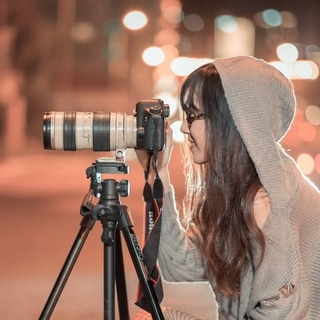
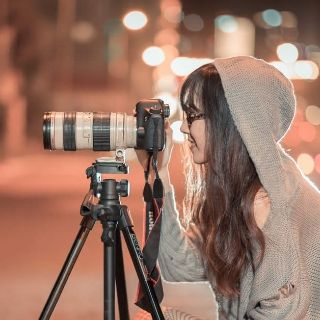
convetion des images en jpg + compression 80%

Changed region(s): [[0.9688, 0.75, 1.0, 0.8125], [0.2812, 0.375, 0.3438, 0.4062], [0.375, 0.5, 0.4062, 0.5312]]

diff --git a/css/style.css b/css/style.css
@@ -1,1 +1,1 @@
-body{margin:0;padding:0;background:#FFF;overflow-x:hidden;-webkit-font-smoothing:antialiased;-moz-osx-font-smoothing:grayscale}*:focus{border:2px dotted gray}a,button{transition:all .3s ease-in-out;outline:none!important}a:hover{text-decoration:none;cursor:pointer}#page-loading-blocs-notifaction{position:fixed;top:0;bottom:0;width:100%;z-index:100000;background:#FFF url(../img/pageload-spinner.gif) no-repeat center center}.bloc{width:100%;clear:both;background:50% 50% no-repeat;padding:0 50px;-webkit-background-size:cover;-moz-background-size:cover;-o-background-size:cover;background-size:cover;position:relative}.bloc .container{padding-left:0;padding-right:0}.bloc-lg{padding:100px 50px}.bloc-md{padding:50px}.bloc-sm{padding:20px 50px}.bg-center,.bg-l-edge,.bg-r-edge,.bg-t-edge,.bg-b-edge,.bg-tl-edge,.bg-bl-edge,.bg-tr-edge,.bg-br-edge,.bg-repeat{-webkit-background-size:auto!important;-moz-background-size:auto!important;-o-background-size:auto!important;background-size:auto!important}.bg-repeat{background:repeat}.bg-t-edge{background:top no-repeat}.bloc-bg-texture::before{content:"";background-size:2px 2px;position:absolute;top:0;bottom:0;left:0;right:0}.texture-paper::before{background:url(../img/texture-paper.png);background-size:280px 280px}.b-parallax{background-attachment:fixed}.d-bloc{color:rgba(255,255,255,.7)}.d-bloc button:hover{color:rgba(255,255,255,.9)}.d-bloc .icon-round,.d-bloc .icon-square,.d-bloc .icon-rounded,.d-bloc .icon-semi-rounded-a,.d-bloc .icon-semi-rounded-b{border-color:rgba(255,255,255,.9)}.d-bloc .divider-h span{border-color:rgba(255,255,255,.2)}.d-bloc .a-btn,.d-bloc .navbar a,.d-bloc .navbar-brand,.d-bloc a .icon-sm,.d-bloc a .icon-md,.d-bloc a .icon-lg,.d-bloc a .icon-xl,.d-bloc h1 a,.d-bloc h2 a,.d-bloc h3 a,.d-bloc h4 a,.d-bloc h5 a,.d-bloc h6 a,.d-bloc p a{color:rgba(255,255,255,.6)}.d-bloc .a-btn:hover,.d-bloc .navbar a:hover,.d-bloc .navbar-brand:hover,.d-bloc a:hover .icon-sm,.d-bloc a:hover .icon-md,.d-bloc a:hover .icon-lg,.d-bloc a:hover .icon-xl,.d-bloc h1 a:hover,.d-bloc h2 a:hover,.d-bloc h3 a:hover,.d-bloc h4 a:hover,.d-bloc h5 a:hover,.d-bloc h6 a:hover,.d-bloc p a:hover{color:rgba(255,255,255,1)}.d-bloc .navbar-toggle .icon-bar{background:rgba(255,255,255,1)}.d-bloc .btn-wire,.d-bloc .btn-wire:hover{color:rgba(255,255,255,1);border-color:rgba(255,255,255,1)}.d-bloc .panel{color:rgba(0,0,0,.5)}.d-bloc .panel button:hover{color:rgba(0,0,0,.7)}.d-bloc .panel icon{border-color:rgba(0,0,0,.7)}.d-bloc .panel .divider-h span{border-color:rgba(0,0,0,.1)}.d-bloc .panel .a-btn{color:rgba(0,0,0,.6)}.d-bloc .panel .a-btn:hover{color:rgba(0,0,0,1)}.d-bloc .panel .btn-wire,.d-bloc .panel .btn-wire:hover{color:rgba(0,0,0,.7);border-color:rgba(0,0,0,.3)}.d-bloc .panel,.l-bloc{color:rgba(0,0,0,.5)}.d-bloc .panel button:hover,.l-bloc button:hover{color:rgba(0,0,0,.7)}.l-bloc .icon-round,.l-bloc .icon-square,.l-bloc .icon-rounded,.l-bloc .icon-semi-rounded-a,.l-bloc .icon-semi-rounded-b{border-color:rgba(0,0,0,.7)}.d-bloc .panel .divider-h span,.l-bloc .divider-h span{border-color:rgba(0,0,0,.1)}.d-bloc .panel .a-btn,.l-bloc .a-btn,.l-bloc .navbar a,.l-bloc .navbar-brand,.l-bloc a .icon-sm,.l-bloc a .icon-md,.l-bloc a .icon-lg,.l-bloc a .icon-xl,.l-bloc h1 a,.l-bloc h2 a,.l-bloc h3 a,.l-bloc h4 a,.l-bloc h5 a,.l-bloc h6 a,.l-bloc p a{color:rgba(0,0,0,.6)}.d-bloc .panel .a-btn:hover,.l-bloc .a-btn:hover,.l-bloc .navbar a:hover,.l-bloc .navbar-brand:hover,.l-bloc a:hover .icon-sm,.l-bloc a:hover .icon-md,.l-bloc a:hover .icon-lg,.l-bloc a:hover .icon-xl,.l-bloc h1 a:hover,.l-bloc h2 a:hover,.l-bloc h3 a:hover,.l-bloc h4 a:hover,.l-bloc h5 a:hover,.l-bloc h6 a:hover,.l-bloc p a:hover{color:rgba(0,0,0,1)}.l-bloc .navbar-toggle .icon-bar{color:rgba(0,0,0,.6)}.d-bloc .panel .btn-wire,.d-bloc .panel .btn-wire:hover,.l-bloc .btn-wire,.l-bloc .btn-wire:hover{color:rgba(0,0,0,.7);border-color:rgba(0,0,0,.3)}.voffset{margin-top:30px}.voffset-lg{margin-top:80px}.row-no-gutters{margin-right:0;margin-left:0}.row.row-no-gutters>[class^="col-"],.row.row-no-gutters>[class*=" col-"]{padding-right:0;padding-left:0}#bloc-1-hero h1{font-size:32px}.navbar{margin-bottom:0;z-index:1}.navbar-brand{height:auto;padding:3px 15px;font-size:25px;font-weight:400;font-weight:600;line-height:44px}.navbar-brand img{max-height:200px;margin:0 5px 0 0;display:inline}.navbar-brand img[src$=svg]{min-width:100px}.nav-center .navbar-brand img{margin:0}.navbar .nav{padding-top:2px;margin-right:-16px;float:right;z-index:1}.nav>li{float:left;margin-top:4px;font-size:16px}.navbar-nav .open .dropdown-menu>li>a{text-align:inherit}.nav>li a:hover,.nav>li a:focus{background:transparent}.navbar-toggle{margin:10px 10px 0 0;border:0}.navbar-toggle:hover{background:transparent!important}.navbar-toggle .icon-bar{background-color:rgba(0,0,0,.5);width:26px}.nav-invert .navbar .nav{float:left}.nav-invert .navbar-header,.nav-invert .navbar-brand{float:right;position:relative;z-index:2}@media (min-width:768px){.site-navigation{position:absolute;top:50%;right:20px;transform:translate(0,-50%);-webkit-transform:translateY(-50%)}.nav>li .dropdown-menu a,.nav>li .dropdown-menu a:hover{color:#484848}.nav-invert .site-navigation{left:0;right:0}.nav-center{text-align:center}.nav-center .navbar-header{width:100%}.nav-center .navbar-header,.nav-center .navbar-brand,.nav-center .nav>li{float:none;display:inline-block}.nav-center .site-navigation{position:relative;width:100%;right:0;margin-right:0;margin-top:20px}.nav-center.mini-nav .navbar-toggle{float:none;margin:10px auto 0}}.nav>li>.dropdown a{background:none!important;display:block;padding:14px 15px}nav .caret{margin:0 5px}.dropdown-menu .dropdown-menu{top:-8px;left:100%}.dropdown-menu .dropmenu-flow-right{top:100%;left:0;margin-left:-1px;border-top-left-radius:0;border-top-right-radius:0}.dropdown-menu .dropdown span{border:4px solid #000;border-top-color:transparent;border-right-color:transparent;border-bottom-color:transparent;margin:6px -5px 0 0!important;float:right}.mg-md{margin-top:10px;margin-bottom:20px}.mg-lg{margin-top:10px;margin-bottom:40px}.btn{margin:0 5px 5px 0}.btn.pull-right{margin:0 0 5px 5px}.btn-d,.btn-d:hover,.btn-d:focus{color:#FFF;background:rgba(0,0,0,.3)}button{outline:none!important}.btn-rd{border-radius:40px}.btn-clean{border:1px solid rgba(0,0,0,.08);border-bottom-color:rgba(0,0,0,.1);text-shadow:0 1px 0 rgba(0,0,1,.1);box-shadow:0 1px 3px rgba(0,0,1,.25),inset 0 1px 0 0 rgba(255,255,255,.15)}.icon-md{font-size:30px!important}.icon-lg{font-size:60px!important}.sm-shadow{text-shadow:0 1px 2px rgba(0,0,0,.3)}.panel-sq,.panel-sq .panel-heading,.panel-sq .panel-footer{border-radius:0}.panel-rd{border-radius:30px}.panel-rd .panel-heading{border-radius:29px 29px 0 0}.panel-rd .panel-footer{border-radius:0 0 29px 29px}.form-control{border-color:rgba(0,0,0,.1);box-shadow:none}.scrollToTop{width:40px;height:40px;position:fixed;bottom:20px;right:20px;opacity:0;z-index:500;transition:all .3s ease-in-out}.scrollToTop span{margin-top:6px}.showScrollTop{font-size:14px;opacity:1}a[data-lightbox]{position:relative;display:block;text-align:center}a[data-lightbox]:hover::before{content:"+";font-family:"HelveticaNeue-Light","Helvetica Neue Light","Helvetica Neue",Helvetica,Arial;font-size:32px;width:50px;height:50px;margin-left:-25px;border-radius:50%;padding-top:2px;padding-left:2px;background:rgba(0,0,0,.6);color:#FFF;font-weight:100;z-index:1;position:absolute;top:30%;transform:translateY(-50%);-webkit-transform:translateY(-50%)}a[data-lightbox]:hover img{opacity:.6;-webkit-animation-fill-mode:none;animation-fill-mode:none}#lightbox-modal{display:flex;align-items:center}#lightbox-modal .modal-dialog{width:90%;max-width:900px;margin:0 auto 0}#lightbox-modal .modal-dialog img{max-height:90vh;margin:0 auto}.lightbox-caption{padding:20px;color:#FFF;background:rgba(0,0,0,.5);position:absolute;left:15px;right:15px;bottom:5px}.close-lightbox{color:#FFF;font-size:30px;position:absolute;top:20px;right:20px;z-index:20;background:rgba(0,0,0,.5);border:none;line-height:30px;padding:0 9px 5px;opacity:.3}.close-lightbox:hover,.next-lightbox:hover,.prev-lightbox:hover{opacity:1;color:#FFF}.next-lightbox,.prev-lightbox{font-size:20px;color:rgba(255,255,255,.9);background:rgba(0,0,0,.5);transition:all .2s ease-in-out;position:absolute;top:45%;z-index:1;opacity:.4}.next-lightbox{padding:6px 8px 1px 13px;right:25px}.prev-lightbox{padding:6px 13px 1px 10px;left:25px}.snapshot-lb .modal-body{padding-bottom:45px}.snapshot-lb .lightbox-caption{padding:0;color:rgba(0,0,0,.5);background:none}h1,h2,h3,h4,h5,h6,p,label,.btn,a{font-family:"helvetica";font-weight:400;color:#575757!important}.container{max-width:1000px}.hero-bloc-text{font-size:38px}.hero-bloc-text-sub{font-size:36px}.statement-bloc-text{line-height:26px;font-style:italic;font-size:20px;text-align:center;font-weight:lighter;max-width:520px;margin:auto auto auto auto}p{font-size:16px}.tight-width-whitespace{max-width:600px;margin:auto auto auto auto}.h1{font-size:20px;font-family:"Open Sans"}.cta-hero{margin-top:22px;color:#FFFFFF!important;text-transform:uppercase;padding:12px 28px 12px 28px;font-size:16px;font-weight:700}.social{max-width:400px;margin:auto auto auto auto}h2{font-size:22px;line-height:1.4em}h3{font-size:15px;text-transform:uppercase;font-weight:700;color:#333333!important}.med-width-whitespace{max-width:800px;margin:auto auto auto auto;box-shadow:0 0 0 #000}h1{color:#333333!important}h4{color:#333333!important}.icons{margin-bottom:14px;margin-top:24px}.white{color:#FFFFFF!important}.portfolio-thumb{margin-bottom:24px;height:270px;width:270px;margin-left:auto;margin-right:auto}.portfolio-row{margin-bottom:44px;margin-top:50px}.avatar{box-shadow:0 4px 9px rgba(0,0,0,.3)}.black-background{background-color:rgba(165,147,99,.7);padding:40px 40px 40px 40px}.bold-link{font-weight:900;text-decoration:underline!important}.bgc-white{background-color:#FFF}.bgc-dark-slate-blue{background-color:#364577}.bgc-atomic-tangerine{background-color:#F3976C}.tc-white{color:#F3976C!important}.btn-atomic-tangerine{background:#F3976C;color:#FFFFFF!important}.btn-atomic-tangerine:hover{background:#c27956!important;color:#0000!important}.ltc-white{color:#FFFFFF!important}.ltc-white:hover{color:#cccccc!important}.ltc-atomic-tangerine{color:#F3976C!important}.ltc-atomic-tangerine:hover{color:#c27956!important}.icon-dark-slate-blue{color:#364577!important;border-color:#364577!important}.bg-dots-bg{background-image:url(../img/dots-bg.png)}.bg-lines-h2-bg{background-image:url(../img/lines-h2-bg.png)}.bg-banniere{background-image:url(../img/la-chouette-agence-banniere.jpg)}.bg-presentation{background-image:url(../img/image-de-presentation.bmp)}@media (max-width:1024px){.bloc{padding-left:20px;padding-right:20px}.bloc.full-width-bloc,.bloc-tile-2.full-width-bloc .container,.bloc-tile-3.full-width-bloc .container,.bloc-tile-4.full-width-bloc .container{padding-left:0;padding-right:0}}@media (max-width:992px) and (min-width:768px){.navbar .nav{max-width:80%}.nav-center.navbar .nav{max-width:100%}}@media only screen and (min-width:768px) and (max-width:1024px) and (orientation:landscape){.b-parallax{background-attachment:scroll}}@media only screen and (min-width:1024px) and (max-width:1366px) and (-webkit-min-device-pixel-ratio:1.5){.b-parallax{background-attachment:scroll}}@media (max-width:991px){.container{width:100%}.b-parallax{background-attachment:scroll}.page-container,#hero-bloc{overflow-x:hidden;position:relative}.bloc{padding-left:20px;padding-right:20px}.bloc-group,.bloc-group .bloc{display:block;width:100%}.bloc-fill-screen .fill-bloc-top-edge,.bloc-fill-screen .fill-bloc-bottom-edge{padding:0 20px;padding-left:20px;padding-right:20px}}@media (max-width:767px){.page-container{overflow-x:hidden;position:relative}h1,h2,h3,h4,h5,h6,p,#disqus_thread{padding-left:10px!important;padding-right:10px!important}.b-parallax{background-attachment:scroll}.navbar .nav{padding-top:0;border-top:1px solid rgba(0,0,0,.2);float:none!important}.navbar.row{margin-left:0;margin-right:0}.site-navigation{position:inherit;transform:none;-webkit-transform:none;-ms-transform:none}.nav>li{margin-top:0;border-bottom:1px solid rgba(0,0,0,.1);background:rgba(0,0,0,.05);text-align:left;padding-left:15px;width:100%}.nav>li:hover{background:rgba(0,0,0,.08)}.dropdown .dropdown a .caret{float:none;margin:5px 0 0 10px!important;border:4px solid #000;border-bottom-color:transparent;border-right-color:transparent;border-left-color:transparent}#hero-bloc .navbar .nav{background:rgba(0,0,0,.8)}#hero-bloc .navbar .nav a{color:rgba(255,255,255,.6)}.hero{padding:50px 0}.hero-nav{left:-1px;right:-1px}.navbar-collapse{padding:0;overflow-x:hidden;-webkit-box-shadow:none;box-shadow:none}.navbar-brand img{max-height:40px;width:auto}.nav-invert .navbar-header{float:none;width:100%}.nav-invert .navbar-toggle{float:left;margin-left:10px}.bloc{padding-left:0;padding-right:0}.bloc-xxl,.bloc-xl,.bloc-lg{padding:40px 0}.bloc-sm,.bloc-md{padding-left:0;padding-right:0}.bloc-tile-2 .container,.bloc-tile-3 .container,.bloc-tile-4 .container,.bloc-fill-screen .fill-bloc-top-edge,.bloc-fill-screen .fill-bloc-bottom-edge{padding-left:0;padding-right:0}.a-block{padding:0 10px}.btn-dwn{display:none}.voffset{margin-top:5px}.voffset-md{margin-top:20px}.voffset-lg{margin-top:30px}form{padding:5px}.close-lightbox{display:inline-block}.blocsapp-device-iphone5{background-size:216px 425px;padding-top:60px;width:216px;height:425px}.blocsapp-device-iphone5 img{width:180px;height:320px}}@media (max-width:400px){.bloc{padding-left:0;padding-right:0}}@media (max-width:767px){.bloc-mob-center-text{text-align:center}}
+body{margin:0;padding:0;background:#FFF;overflow-x:hidden;-webkit-font-smoothing:antialiased;-moz-osx-font-smoothing:grayscale}*:focus{border:2px dotted gray}a,button{transition:all .3s ease-in-out;outline:none!important}a:hover{text-decoration:none;cursor:pointer}#page-loading-blocs-notifaction{position:fixed;top:0;bottom:0;width:100%;z-index:100000;background:#FFF url(../img/pageload-spinner.gif) no-repeat center center}.bloc{width:100%;clear:both;background:50% 50% no-repeat;padding:0 50px;-webkit-background-size:cover;-moz-background-size:cover;-o-background-size:cover;background-size:cover;position:relative}.bloc .container{padding-left:0;padding-right:0}.bloc-lg{padding:100px 50px}.bloc-md{padding:50px}.bloc-sm{padding:20px 50px}.bg-center,.bg-l-edge,.bg-r-edge,.bg-t-edge,.bg-b-edge,.bg-tl-edge,.bg-bl-edge,.bg-tr-edge,.bg-br-edge,.bg-repeat{-webkit-background-size:auto!important;-moz-background-size:auto!important;-o-background-size:auto!important;background-size:auto!important}.bg-repeat{background:repeat}.bg-t-edge{background:top no-repeat}.bloc-bg-texture::before{content:"";background-size:2px 2px;position:absolute;top:0;bottom:0;left:0;right:0}.texture-paper::before{background:url(../img/texture-paper.png);background-size:280px 280px}.b-parallax{background-attachment:fixed}.d-bloc{color:rgba(255,255,255,.7)}.d-bloc button:hover{color:rgba(255,255,255,.9)}.d-bloc .icon-round,.d-bloc .icon-square,.d-bloc .icon-rounded,.d-bloc .icon-semi-rounded-a,.d-bloc .icon-semi-rounded-b{border-color:rgba(255,255,255,.9)}.d-bloc .divider-h span{border-color:rgba(255,255,255,.2)}.d-bloc .a-btn,.d-bloc .navbar a,.d-bloc .navbar-brand,.d-bloc a .icon-sm,.d-bloc a .icon-md,.d-bloc a .icon-lg,.d-bloc a .icon-xl,.d-bloc h1 a,.d-bloc h2 a,.d-bloc h3 a,.d-bloc h4 a,.d-bloc h5 a,.d-bloc h6 a,.d-bloc p a{color:rgba(255,255,255,.6)}.d-bloc .a-btn:hover,.d-bloc .navbar a:hover,.d-bloc .navbar-brand:hover,.d-bloc a:hover .icon-sm,.d-bloc a:hover .icon-md,.d-bloc a:hover .icon-lg,.d-bloc a:hover .icon-xl,.d-bloc h1 a:hover,.d-bloc h2 a:hover,.d-bloc h3 a:hover,.d-bloc h4 a:hover,.d-bloc h5 a:hover,.d-bloc h6 a:hover,.d-bloc p a:hover{color:rgba(255,255,255,1)}.d-bloc .navbar-toggle .icon-bar{background:rgba(255,255,255,1)}.d-bloc .btn-wire,.d-bloc .btn-wire:hover{color:rgba(255,255,255,1);border-color:rgba(255,255,255,1)}.d-bloc .panel{color:rgba(0,0,0,.5)}.d-bloc .panel button:hover{color:rgba(0,0,0,.7)}.d-bloc .panel icon{border-color:rgba(0,0,0,.7)}.d-bloc .panel .divider-h span{border-color:rgba(0,0,0,.1)}.d-bloc .panel .a-btn{color:rgba(0,0,0,.6)}.d-bloc .panel .a-btn:hover{color:rgba(0,0,0,1)}.d-bloc .panel .btn-wire,.d-bloc .panel .btn-wire:hover{color:rgba(0,0,0,.7);border-color:rgba(0,0,0,.3)}.d-bloc .panel,.l-bloc{color:rgba(0,0,0,.5)}.d-bloc .panel button:hover,.l-bloc button:hover{color:rgba(0,0,0,.7)}.l-bloc .icon-round,.l-bloc .icon-square,.l-bloc .icon-rounded,.l-bloc .icon-semi-rounded-a,.l-bloc .icon-semi-rounded-b{border-color:rgba(0,0,0,.7)}.d-bloc .panel .divider-h span,.l-bloc .divider-h span{border-color:rgba(0,0,0,.1)}.d-bloc .panel .a-btn,.l-bloc .a-btn,.l-bloc .navbar a,.l-bloc .navbar-brand,.l-bloc a .icon-sm,.l-bloc a .icon-md,.l-bloc a .icon-lg,.l-bloc a .icon-xl,.l-bloc h1 a,.l-bloc h2 a,.l-bloc h3 a,.l-bloc h4 a,.l-bloc h5 a,.l-bloc h6 a,.l-bloc p a{color:rgba(0,0,0,.6)}.d-bloc .panel .a-btn:hover,.l-bloc .a-btn:hover,.l-bloc .navbar a:hover,.l-bloc .navbar-brand:hover,.l-bloc a:hover .icon-sm,.l-bloc a:hover .icon-md,.l-bloc a:hover .icon-lg,.l-bloc a:hover .icon-xl,.l-bloc h1 a:hover,.l-bloc h2 a:hover,.l-bloc h3 a:hover,.l-bloc h4 a:hover,.l-bloc h5 a:hover,.l-bloc h6 a:hover,.l-bloc p a:hover{color:rgba(0,0,0,1)}.l-bloc .navbar-toggle .icon-bar{color:rgba(0,0,0,.6)}.d-bloc .panel .btn-wire,.d-bloc .panel .btn-wire:hover,.l-bloc .btn-wire,.l-bloc .btn-wire:hover{color:rgba(0,0,0,.7);border-color:rgba(0,0,0,.3)}.voffset{margin-top:30px}.voffset-lg{margin-top:80px}.row-no-gutters{margin-right:0;margin-left:0}.row.row-no-gutters>[class^="col-"],.row.row-no-gutters>[class*=" col-"]{padding-right:0;padding-left:0}#bloc-1-hero h1{font-size:32px}.navbar{margin-bottom:0;z-index:1}.navbar-brand{height:auto;padding:3px 15px;font-size:25px;font-weight:400;font-weight:600;line-height:44px}.navbar-brand img{max-height:200px;margin:0 5px 0 0;display:inline}.navbar-brand img[src$=svg]{min-width:100px}.nav-center .navbar-brand img{margin:0}.navbar .nav{padding-top:2px;margin-right:-16px;float:right;z-index:1}.nav>li{float:left;margin-top:4px;font-size:16px}.navbar-nav .open .dropdown-menu>li>a{text-align:inherit}.nav>li a:hover,.nav>li a:focus{background:transparent}.navbar-toggle{margin:10px 10px 0 0;border:0}.navbar-toggle:hover{background:transparent!important}.navbar-toggle .icon-bar{background-color:rgba(0,0,0,.5);width:26px}.nav-invert .navbar .nav{float:left}.nav-invert .navbar-header,.nav-invert .navbar-brand{float:right;position:relative;z-index:2}@media (min-width:768px){.site-navigation{position:absolute;top:50%;right:20px;transform:translate(0,-50%);-webkit-transform:translateY(-50%)}.nav>li .dropdown-menu a,.nav>li .dropdown-menu a:hover{color:#484848}.nav-invert .site-navigation{left:0;right:0}.nav-center{text-align:center}.nav-center .navbar-header{width:100%}.nav-center .navbar-header,.nav-center .navbar-brand,.nav-center .nav>li{float:none;display:inline-block}.nav-center .site-navigation{position:relative;width:100%;right:0;margin-right:0;margin-top:20px}.nav-center.mini-nav .navbar-toggle{float:none;margin:10px auto 0}}.nav>li>.dropdown a{background:none!important;display:block;padding:14px 15px}nav .caret{margin:0 5px}.dropdown-menu .dropdown-menu{top:-8px;left:100%}.dropdown-menu .dropmenu-flow-right{top:100%;left:0;margin-left:-1px;border-top-left-radius:0;border-top-right-radius:0}.dropdown-menu .dropdown span{border:4px solid #000;border-top-color:transparent;border-right-color:transparent;border-bottom-color:transparent;margin:6px -5px 0 0!important;float:right}.mg-md{margin-top:10px;margin-bottom:20px}.mg-lg{margin-top:10px;margin-bottom:40px}.btn{margin:0 5px 5px 0}.btn.pull-right{margin:0 0 5px 5px}.btn-d,.btn-d:hover,.btn-d:focus{color:#FFF;background:rgba(0,0,0,.3)}button{outline:none!important}.btn-rd{border-radius:40px}.btn-clean{border:1px solid rgba(0,0,0,.08);border-bottom-color:rgba(0,0,0,.1);text-shadow:0 1px 0 rgba(0,0,1,.1);box-shadow:0 1px 3px rgba(0,0,1,.25),inset 0 1px 0 0 rgba(255,255,255,.15)}.icon-md{font-size:30px!important}.icon-lg{font-size:60px!important}.sm-shadow{text-shadow:0 1px 2px rgba(0,0,0,.3)}.panel-sq,.panel-sq .panel-heading,.panel-sq .panel-footer{border-radius:0}.panel-rd{border-radius:30px}.panel-rd .panel-heading{border-radius:29px 29px 0 0}.panel-rd .panel-footer{border-radius:0 0 29px 29px}.form-control{border-color:rgba(0,0,0,.1);box-shadow:none}.scrollToTop{width:40px;height:40px;position:fixed;bottom:20px;right:20px;opacity:0;z-index:500;transition:all .3s ease-in-out}.scrollToTop span{margin-top:6px}.showScrollTop{font-size:14px;opacity:1}a[data-lightbox]{position:relative;display:block;text-align:center}a[data-lightbox]:hover::before{content:"+";font-family:"HelveticaNeue-Light","Helvetica Neue Light","Helvetica Neue",Helvetica,Arial;font-size:32px;width:50px;height:50px;margin-left:-25px;border-radius:50%;padding-top:2px;padding-left:2px;background:rgba(0,0,0,.6);color:#FFF;font-weight:100;z-index:1;position:absolute;top:30%;transform:translateY(-50%);-webkit-transform:translateY(-50%)}a[data-lightbox]:hover img{opacity:.6;-webkit-animation-fill-mode:none;animation-fill-mode:none}#lightbox-modal{display:flex;align-items:center}#lightbox-modal .modal-dialog{width:90%;max-width:900px;margin:0 auto 0}#lightbox-modal .modal-dialog img{max-height:90vh;margin:0 auto}.lightbox-caption{padding:20px;color:#FFF;background:rgba(0,0,0,.5);position:absolute;left:15px;right:15px;bottom:5px}.close-lightbox{color:#FFF;font-size:30px;position:absolute;top:20px;right:20px;z-index:20;background:rgba(0,0,0,.5);border:none;line-height:30px;padding:0 9px 5px;opacity:.3}.close-lightbox:hover,.next-lightbox:hover,.prev-lightbox:hover{opacity:1;color:#FFF}.next-lightbox,.prev-lightbox{font-size:20px;color:rgba(255,255,255,.9);background:rgba(0,0,0,.5);transition:all .2s ease-in-out;position:absolute;top:45%;z-index:1;opacity:.4}.next-lightbox{padding:6px 8px 1px 13px;right:25px}.prev-lightbox{padding:6px 13px 1px 10px;left:25px}.snapshot-lb .modal-body{padding-bottom:45px}.snapshot-lb .lightbox-caption{padding:0;color:rgba(0,0,0,.5);background:none}h1,h2,h3,h4,h5,h6,p,label,.btn,a{font-family:"helvetica";font-weight:400;color:#575757!important}.container{max-width:1000px}.hero-bloc-text{font-size:38px}.hero-bloc-text-sub{font-size:36px}.statement-bloc-text{line-height:26px;font-style:italic;font-size:20px;text-align:center;font-weight:lighter;max-width:520px;margin:auto auto auto auto}p{font-size:16px}.tight-width-whitespace{max-width:600px;margin:auto auto auto auto}.h1{font-size:20px;font-family:"Open Sans"}.cta-hero{margin-top:22px;color:#FFFFFF!important;text-transform:uppercase;padding:12px 28px 12px 28px;font-size:16px;font-weight:700}.social{max-width:400px;margin:auto auto auto auto}h2{font-size:22px;line-height:1.4em}h3{font-size:15px;text-transform:uppercase;font-weight:700;color:#333333!important}.med-width-whitespace{max-width:800px;margin:auto auto auto auto;box-shadow:0 0 0 #000}h1{color:#333333!important}h4{color:#333333!important}.icons{margin-bottom:14px;margin-top:24px}.white{color:#FFFFFF!important}.portfolio-thumb{margin-bottom:24px;height:270px;width:270px;margin-left:auto;margin-right:auto}.portfolio-row{margin-bottom:44px;margin-top:50px}.avatar{box-shadow:0 4px 9px rgba(0,0,0,.3)}.black-background{background-color:rgba(165,147,99,.7);padding:40px 40px 40px 40px}.bold-link{font-weight:900;text-decoration:underline!important}.bgc-white{background-color:#FFF}.bgc-dark-slate-blue{background-color:#364577}.bgc-atomic-tangerine{background-color:#F3976C}.tc-white{color:#F3976C!important}.btn-atomic-tangerine{background:#F3976C;color:#FFFFFF!important}.btn-atomic-tangerine:hover{background:#c27956!important;color:#0000!important}.ltc-white{color:#FFFFFF!important}.ltc-white:hover{color:#cccccc!important}.ltc-atomic-tangerine{color:#F3976C!important}.ltc-atomic-tangerine:hover{color:#c27956!important}.icon-dark-slate-blue{color:#364577!important;border-color:#364577!important}.bg-dots-bg{background-image:url(../img/dots-bg.png)}.bg-lines-h2-bg{background-image:url(../img/lines-h2-bg.png)}.bg-banniere{background-image:url(../img/la-chouette-agence-banniere.jpg)}.bg-presentation{background-image:url(../img/image-de-presentation.jpg)}@media (max-width:1024px){.bloc{padding-left:20px;padding-right:20px}.bloc.full-width-bloc,.bloc-tile-2.full-width-bloc .container,.bloc-tile-3.full-width-bloc .container,.bloc-tile-4.full-width-bloc .container{padding-left:0;padding-right:0}}@media (max-width:992px) and (min-width:768px){.navbar .nav{max-width:80%}.nav-center.navbar .nav{max-width:100%}}@media only screen and (min-width:768px) and (max-width:1024px) and (orientation:landscape){.b-parallax{background-attachment:scroll}}@media only screen and (min-width:1024px) and (max-width:1366px) and (-webkit-min-device-pixel-ratio:1.5){.b-parallax{background-attachment:scroll}}@media (max-width:991px){.container{width:100%}.b-parallax{background-attachment:scroll}.page-container,#hero-bloc{overflow-x:hidden;position:relative}.bloc{padding-left:20px;padding-right:20px}.bloc-group,.bloc-group .bloc{display:block;width:100%}.bloc-fill-screen .fill-bloc-top-edge,.bloc-fill-screen .fill-bloc-bottom-edge{padding:0 20px;padding-left:20px;padding-right:20px}}@media (max-width:767px){.page-container{overflow-x:hidden;position:relative}h1,h2,h3,h4,h5,h6,p,#disqus_thread{padding-left:10px!important;padding-right:10px!important}.b-parallax{background-attachment:scroll}.navbar .nav{padding-top:0;border-top:1px solid rgba(0,0,0,.2);float:none!important}.navbar.row{margin-left:0;margin-right:0}.site-navigation{position:inherit;transform:none;-webkit-transform:none;-ms-transform:none}.nav>li{margin-top:0;border-bottom:1px solid rgba(0,0,0,.1);background:rgba(0,0,0,.05);text-align:left;padding-left:15px;width:100%}.nav>li:hover{background:rgba(0,0,0,.08)}.dropdown .dropdown a .caret{float:none;margin:5px 0 0 10px!important;border:4px solid #000;border-bottom-color:transparent;border-right-color:transparent;border-left-color:transparent}#hero-bloc .navbar .nav{background:rgba(0,0,0,.8)}#hero-bloc .navbar .nav a{color:rgba(255,255,255,.6)}.hero{padding:50px 0}.hero-nav{left:-1px;right:-1px}.navbar-collapse{padding:0;overflow-x:hidden;-webkit-box-shadow:none;box-shadow:none}.navbar-brand img{max-height:40px;width:auto}.nav-invert .navbar-header{float:none;width:100%}.nav-invert .navbar-toggle{float:left;margin-left:10px}.bloc{padding-left:0;padding-right:0}.bloc-xxl,.bloc-xl,.bloc-lg{padding:40px 0}.bloc-sm,.bloc-md{padding-left:0;padding-right:0}.bloc-tile-2 .container,.bloc-tile-3 .container,.bloc-tile-4 .container,.bloc-fill-screen .fill-bloc-top-edge,.bloc-fill-screen .fill-bloc-bottom-edge{padding-left:0;padding-right:0}.a-block{padding:0 10px}.btn-dwn{display:none}.voffset{margin-top:5px}.voffset-md{margin-top:20px}.voffset-lg{margin-top:30px}form{padding:5px}.close-lightbox{display:inline-block}.blocsapp-device-iphone5{background-size:216px 425px;padding-top:60px;width:216px;height:425px}.blocsapp-device-iphone5 img{width:180px;height:320px}}@media (max-width:400px){.bloc{padding-left:0;padding-right:0}}@media (max-width:767px){.bloc-mob-center-text{text-align:center}}
